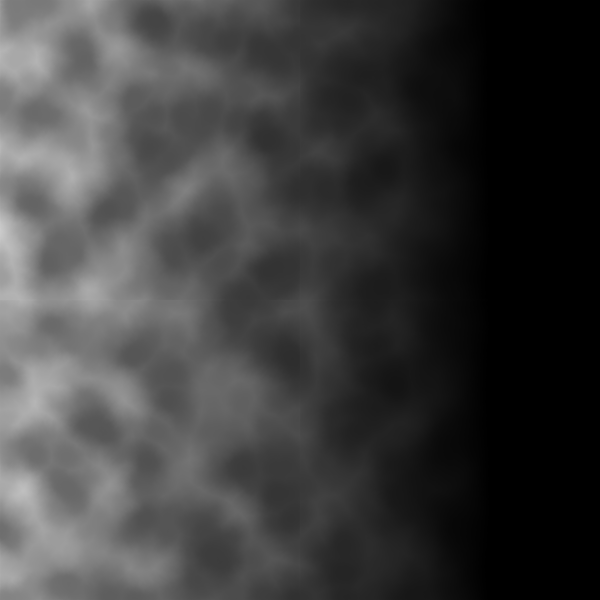
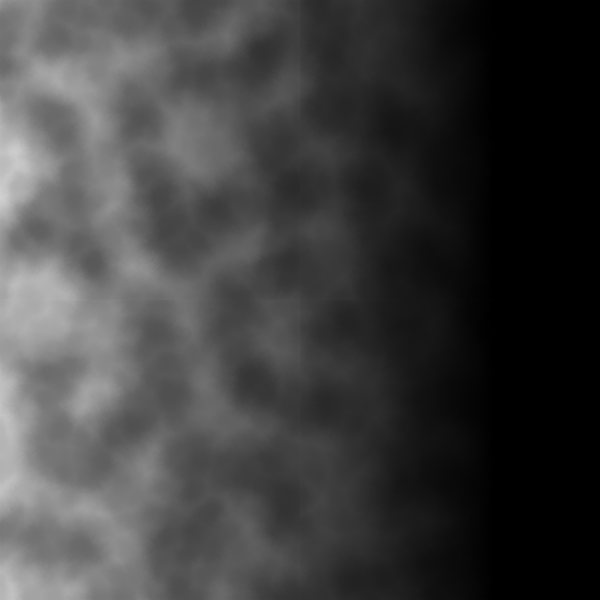
rockier mountains

diff --git a/test_scripts/testShorelineErosion.js b/test_scripts/testShorelineErosion.js
@@ -3,19 +3,17 @@ var util = require('util');
 var config = require('./erosionConfig.json');
 var path = require('path');
 var erodeScript = path.resolve(__dirname, '../lib/erosion2/erode.js');
+var shoreline = require('./../lib/worker_scripts/shorelineTerrain');
+var Manager = require('./../lib/TerrainManager');
 config.script = erodeScript;
 
 if (cluster.isMaster) {
-    var Manager = require('./../lib/TerrainManager');
-    var path = require('path');
-    var shoreline = require('./../lib/worker_scripts/shorelineTerrain');
     console.log('running shoreline');
     var ter;
     var manager;
     shoreline(config.size, config.size)
         .then(function(terrain) {
             ter = terrain;
-            var erodeScript = path.resolve(__dirname, '../lib/erosion/erode.js');
             console.log('executing script', erodeScript);
 
             return ter.toPng(path.resolve(__dirname, 'shorelinePreEroded.png'))

diff --git a/lib/worker_scripts/shorelineTerrain.js b/lib/worker_scripts/shorelineTerrain.js
@@ -4,8 +4,8 @@ var path = require('path');
 var SimplexNoise = require('simplex-noise');
 
 var K1 = 6;
-var K2 = 16;
-var K3 = 40;
+var K2 = 18;
+var K3 = 50;
 
 var R1 = 50;
 var R2 = 10;
@@ -26,7 +26,7 @@ module.exports = function shorelineTerrain(width, height) {
 
        var shoreHeight = 3 *(J/2 - j)/J;
 
-
+            shoreHeight += Math.random() * 0.05;
 
         return MOUNTAIN_HEIGHT * ((shoreHeight +  (J - j * 1.2)/J *( s1 + s2 + s3) / DIV) + 1)/4;
     });
